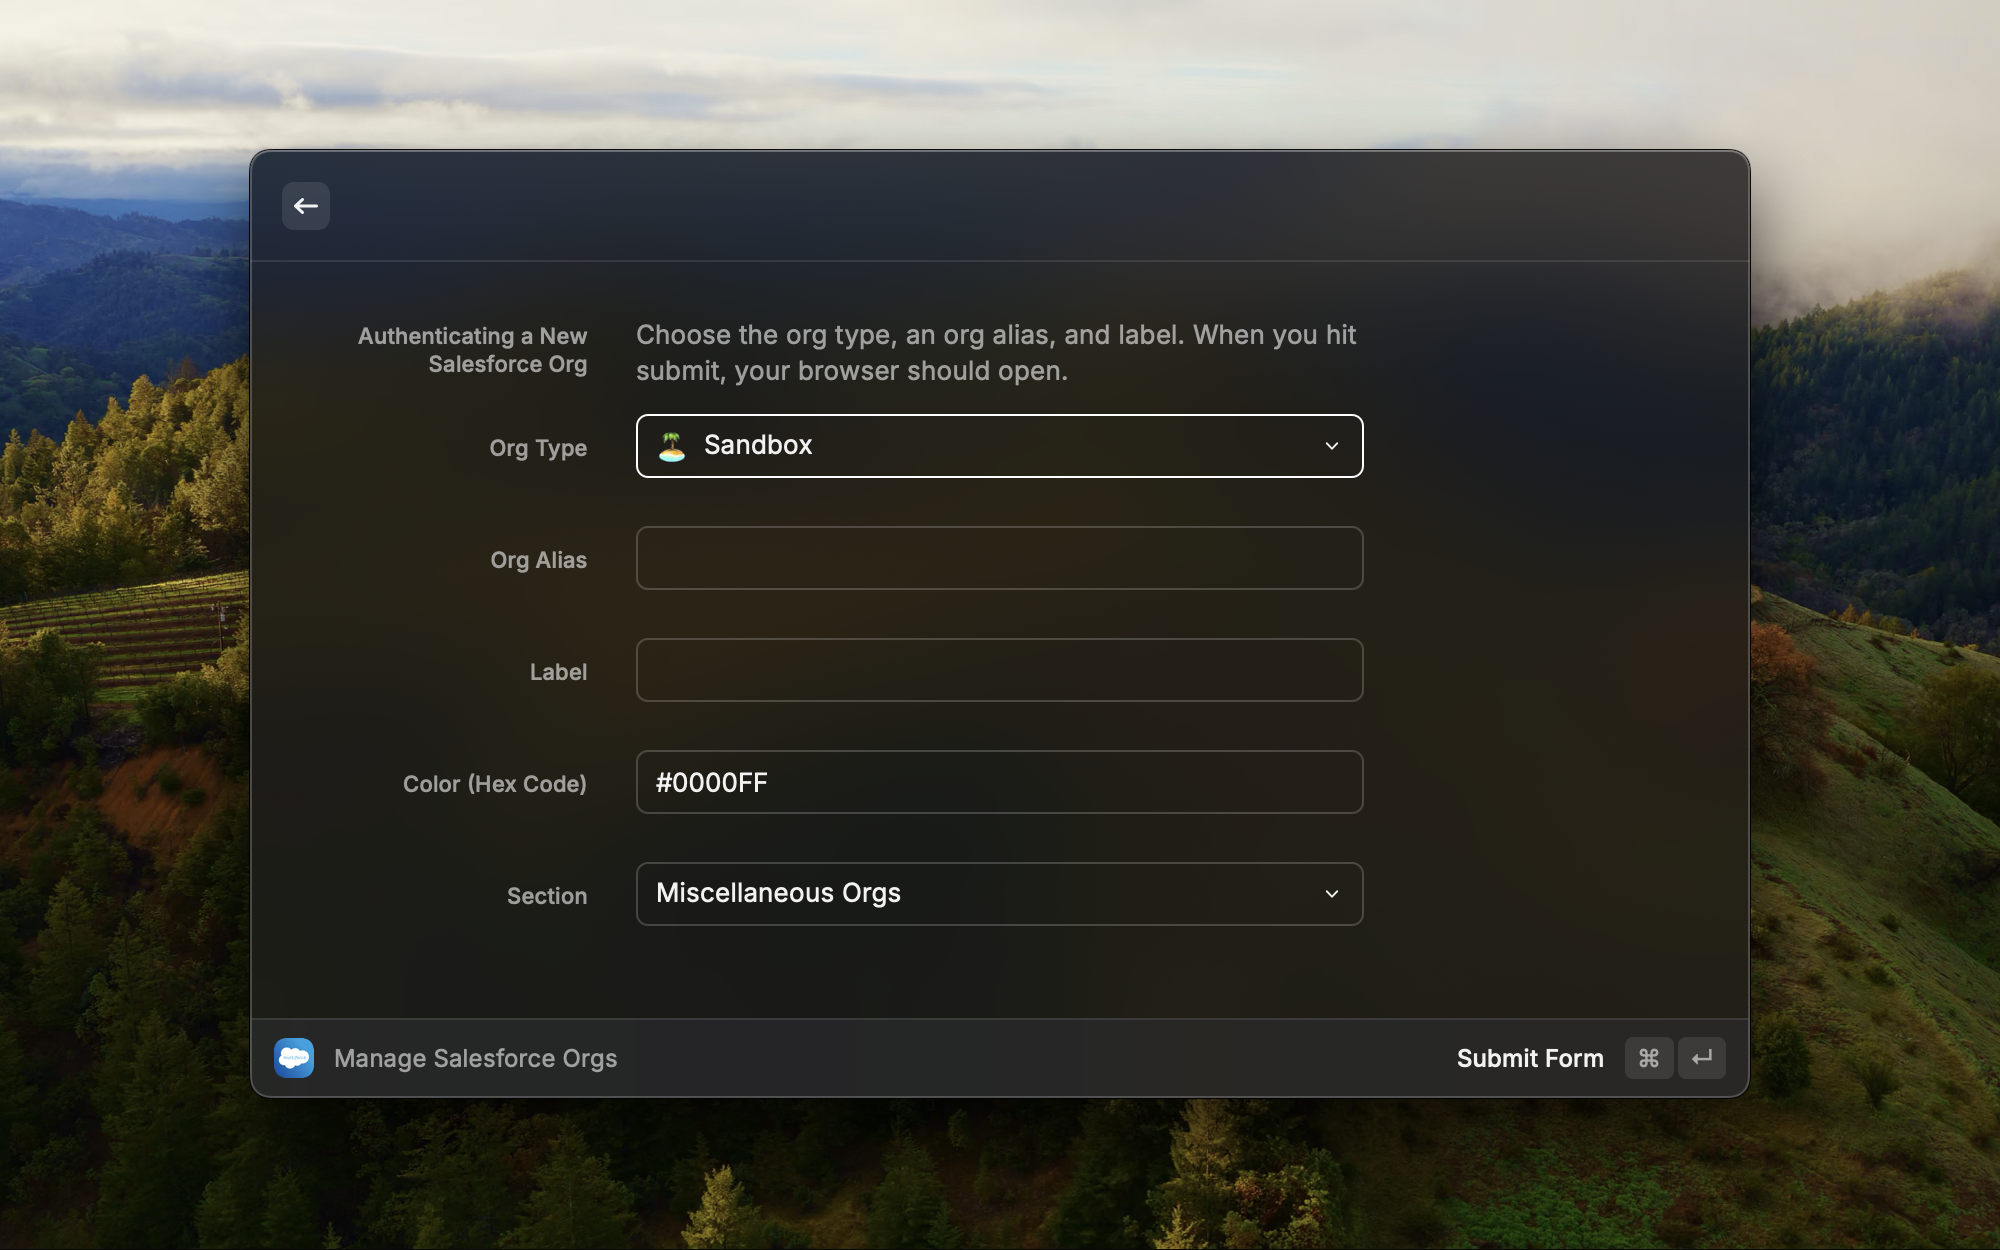
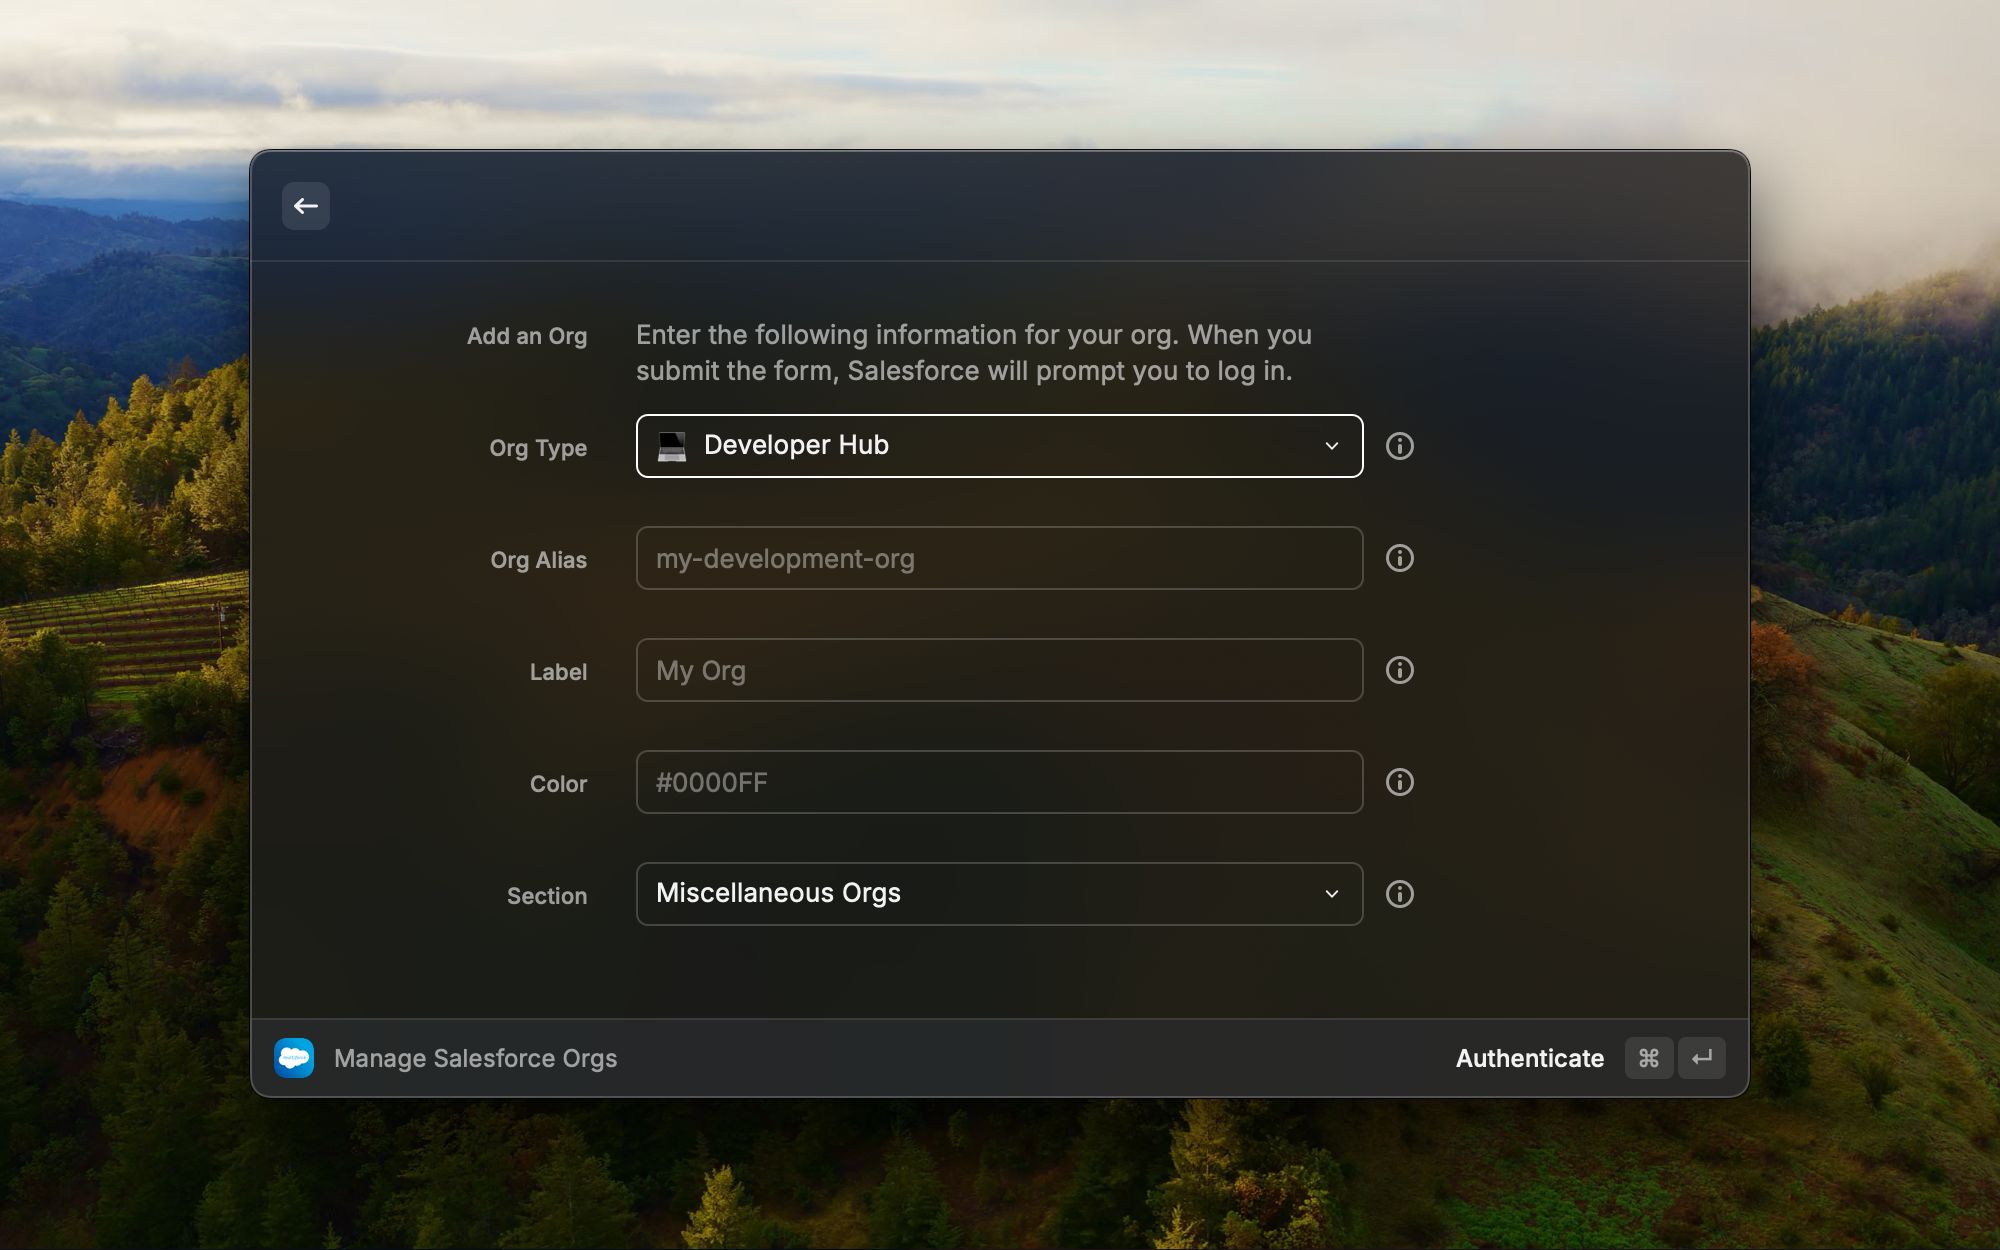
Update metadata images

diff --git a/src/components/pages/AuthenticateNewOrg.tsx b/src/components/pages/AuthenticateNewOrg.tsx
@@ -35,7 +35,6 @@ export function AuthenticateNewOrg(props: {
       }
     }
     getSectionList();
-    setValue("color", DEFAULT_COLOR);
   }, []);
 
   const showErrorToast = async () => {
@@ -57,7 +56,7 @@ export function AuthenticateNewOrg(props: {
     }
   };
 
-  const { handleSubmit, itemProps, setValue } = useForm<AuthenticateNewOrgFormData>({
+  const { handleSubmit, itemProps } = useForm<AuthenticateNewOrgFormData>({
     onSubmit(values: AuthenticateNewOrgFormData) {
       if (values.type === "sandbox") {
         values.url = "https://test.salesforce.com";
@@ -114,20 +113,20 @@ export function AuthenticateNewOrg(props: {
       }
     >
       <Form.Description
-        title="Authenticating a New Salesforce Org"
-        text="Choose the org type, an org alias, and label. When you hit submit, your browser should open. "
+        title="Add an Org"
+        text="Enter the following information for your org. When you submit the form, Salesforce will prompt you to log in."
       />
-      <Form.Dropdown title="Org Type" {...itemProps.type} onChange={setOrgType}>
+      <Form.Dropdown info="What type of org are you logging into? If you have a custom URL, choose the 'Custom' option. "title="Org Type" {...itemProps.type} onChange={setOrgType}>
         <Form.Dropdown.Item value="sandbox" title="Sandbox" icon="🏝" />
         <Form.Dropdown.Item value="custom" title="Custom" icon="🚀" />
         <Form.Dropdown.Item value="prod" title="Production" icon="💼" />
         <Form.Dropdown.Item value="dev" title="Developer Hub" icon="💻" />
       </Form.Dropdown>
-      {orgType === "custom" ? <Form.TextField title="Custom URL" {...itemProps.url} /> : <></>}
-      <Form.TextField title="Org Alias" {...itemProps.alias} />
-      <Form.TextField title="Label" {...itemProps.label} />
-      <Form.TextField title="Color (Hex Code)" {...itemProps.color} />
-      <Form.Dropdown title="Section" {...itemProps.section} onChange={setSection}>
+      {orgType === "custom" ? <Form.TextField title="Custom URL" {...itemProps.url} placeholder="https://my-custom-org.sandbox.my.salesforce.com"/> : <></>}
+      <Form.TextField info="Enter an alias for your org. This alias is used to uniquely identify your org. If you use VSCode or the SF CLI tools, this alias will also be displayed there." title="Org Alias" {...itemProps.alias} placeholder="my-development-org"/>
+      <Form.TextField info="Enter a label to use with your org." title="Label" {...itemProps.label} placeholder="My Org"/>
+      <Form.TextField info={`Enter a color to use on the Salesforce Icon for your org. This color must be in HEX format, ie ${DEFAULT_COLOR}.`} title="Color" {...itemProps.color} placeholder={DEFAULT_COLOR}/>
+      <Form.Dropdown info="Select a section to group orgs on your list. If you want to create a new group, choose the 'New Section' option." title="Section" {...itemProps.section} onChange={setSection}>
         {sections.map((sect, index) => (
           <Form.Dropdown.Item key={index} value={sect} title={sect} />
         ))}

diff --git a/src/components/pages/DeveloperOrgDetails.tsx b/src/components/pages/DeveloperOrgDetails.tsx
@@ -39,7 +39,7 @@ export function DeveloperOrgDetails(props: { org: DeveloperOrg; dispatch: Dispat
     getSectionList();
   }, []);
 
-  const title = `${org.label ?? ""} Details`;
+  const title = org.label && org.label !== "" ? org.label : org.alias;
 
   const { handleSubmit, itemProps, setValue } = useForm<AuthenticateNewOrgFormData>({
     onSubmit(values: AuthenticateNewOrgFormData) {
@@ -76,13 +76,13 @@ export function DeveloperOrgDetails(props: { org: DeveloperOrg; dispatch: Dispat
         </ActionPanel>
       }
     >
-      <Form.Description title={title} text="" />
+      <Form.Description title="" text={`Update ${title}`} />
       <Form.Description title="Org URL" text={org.instanceUrl} />
       <Form.Description title="Username" text={org.username} />
       <Form.Description title="Org Alias" text={org.alias} />
-      <Form.TextField title="Label" {...itemProps.label} />
-      <Form.TextField title="Color (Hex Code)" {...itemProps.color} />
-      <Form.Dropdown title="Section" {...itemProps.section} onChange={setSectionValue}>
+      <Form.TextField title="Label" {...itemProps.label} info="Enter a label to use with your org."/>
+      <Form.TextField title="Color" {...itemProps.color} info={`Enter a color to use on the Salesforce Icon for your org. This color must be in HEX format, ie ${DEFAULT_COLOR}.`}/>
+      <Form.Dropdown title="Section" {...itemProps.section} onChange={setSectionValue} info="Select a section to group orgs on your list. If you want to create a new group, choose the 'New Section' option.">
         {sections.map((sect, index) => (
           <Form.Dropdown.Item key={index} value={sect} title={sect} />
         ))}

diff --git a/src/components/pages/EmptyOrgList.tsx b/src/components/pages/EmptyOrgList.tsx
@@ -4,7 +4,7 @@ import { useMultiForceContext } from "../providers/OrgListProvider";
 
 export function EmptyOrgList() {
   const markdown =
-    "# Welcome to MultiForce!\nYour easy tool for logging in to your Salesforce orgs!\n\nIt doesn't look like you have added any orgs yet. Press **Enter** to authenticate your first org!";
+    "# Welcome to MultiForce!\nYour easy tool for logging in to your Salesforce orgs!\n\nIt doesn't look like you have added any orgs yet. Press **Enter** to add your first org!";
   const { dispatch } = useMultiForceContext();
 
   return (
@@ -13,7 +13,7 @@ export function EmptyOrgList() {
       actions={
         <ActionPanel>
           <Action.Push
-            title="Authenticate"
+            title="Add"
             target={<AuthenticateNewOrg dispatch={dispatch} />}
             icon={{ source: Icon.PlusSquare }}
             shortcut={Keyboard.Shortcut.Common.New}

diff --git a/src/utils/orgUtility.ts b/src/utils/orgUtility.ts
@@ -33,7 +33,7 @@ export function combineOrgList(existingOrgs: DeveloperOrg[], newOrgs: DeveloperO
   // Sort the combined list by alias
   combinedOrgs.sort((a, b) => a.alias.localeCompare(b.alias));
 
-  return combinedOrgs;
+  return deduplicateList(combinedOrgs);
 }
 
 export function orgListsAreDifferent(orgs1: DeveloperOrg[], orgs2: DeveloperOrg[]): boolean {
@@ -46,4 +46,8 @@ export function orgListsAreDifferent(orgs1: DeveloperOrg[], orgs2: DeveloperOrg[
   // If the size of the intersection is not equal to the size of either set,
   // there is a discrepancy (meaning some aliases are missing or extra)
   return intersection.size !== aliases1.size || intersection.size !== aliases2.size || orgs1.length !== orgs2.length;
+}
+
+export function removeOrgByAlias(orgs: DeveloperOrg[], aliasToRemove: string): DeveloperOrg[] {
+  return orgs.filter(org => org.alias !== aliasToRemove);
 }

diff --git a/src/components/listItems/OrgListItem.tsx b/src/components/listItems/OrgListItem.tsx
@@ -40,6 +40,7 @@ export function OrgListItem(props: { index: number; org: DeveloperOrg }) {
     if (
       await confirmAlert({
         title: `Are you sure you want to delete\n${org.label ? org.label : org.alias}?`,
+        message: `Deleting will log you out in MultiForce, VSCode, and the SF CLI tool. You can always re-add this org later.`,
         icon: { source: Icon.Trash },
         primaryAction: {
           title: "Delete",
@@ -70,7 +71,7 @@ export function OrgListItem(props: { index: number; org: DeveloperOrg }) {
             shortcut={{ modifiers: ["cmd"], key: "return" }}
           />
           <Action.Push
-            title="Authenticate"
+            title="Add"
             target={<AuthenticateNewOrg orgs={orgs} dispatch={dispatch} />}
             icon={{ source: Icon.PlusSquare }}
             shortcut={Keyboard.Shortcut.Common.New}

diff --git a/src/reducers/orgListReducer.ts b/src/reducers/orgListReducer.ts
@@ -21,11 +21,9 @@ const addOrg = (orgMap: Map<string, DeveloperOrg[]>, newOrg: DeveloperOrg): Deve
 };
 
 const updatedOrg = (orgMap: Map<string, DeveloperOrg[]>, updatedOrg: DeveloperOrg): DeveloperOrg[] => {
-  const orgs = Array.from(orgMap.values()).flat();
-  const oldOrgIndex = orgs.findIndex((org) => org.alias === updatedOrg.alias);
-  orgs.slice(oldOrgIndex, 1);
-  orgs.push(updatedOrg);
-  return orgs;
+  const updatedOrgs = deleteOrg(orgMap, updatedOrg)
+  updatedOrgs.push(updatedOrg);
+  return updatedOrgs;
 };
 
 const deleteOrg = (orgMap: Map<string, DeveloperOrg[]>, deletedOrg: DeveloperOrg): DeveloperOrg[] => {

diff --git a/src/components/MutiForce.tsx b/src/components/MutiForce.tsx
@@ -14,7 +14,6 @@ export default function MultiForce() {
     async function checkForGlobalOrgChanges(storedOrgs: DeveloperOrg[]) {
       //Get Orgs from Salesforce
       const globalOrgs = await getOrgList();
-
       //If there are no stored orgs, but there are global orgs, use them immediately.
       if (storedOrgs.length === 0 && globalOrgs.length > 0) {
         dispatch({
